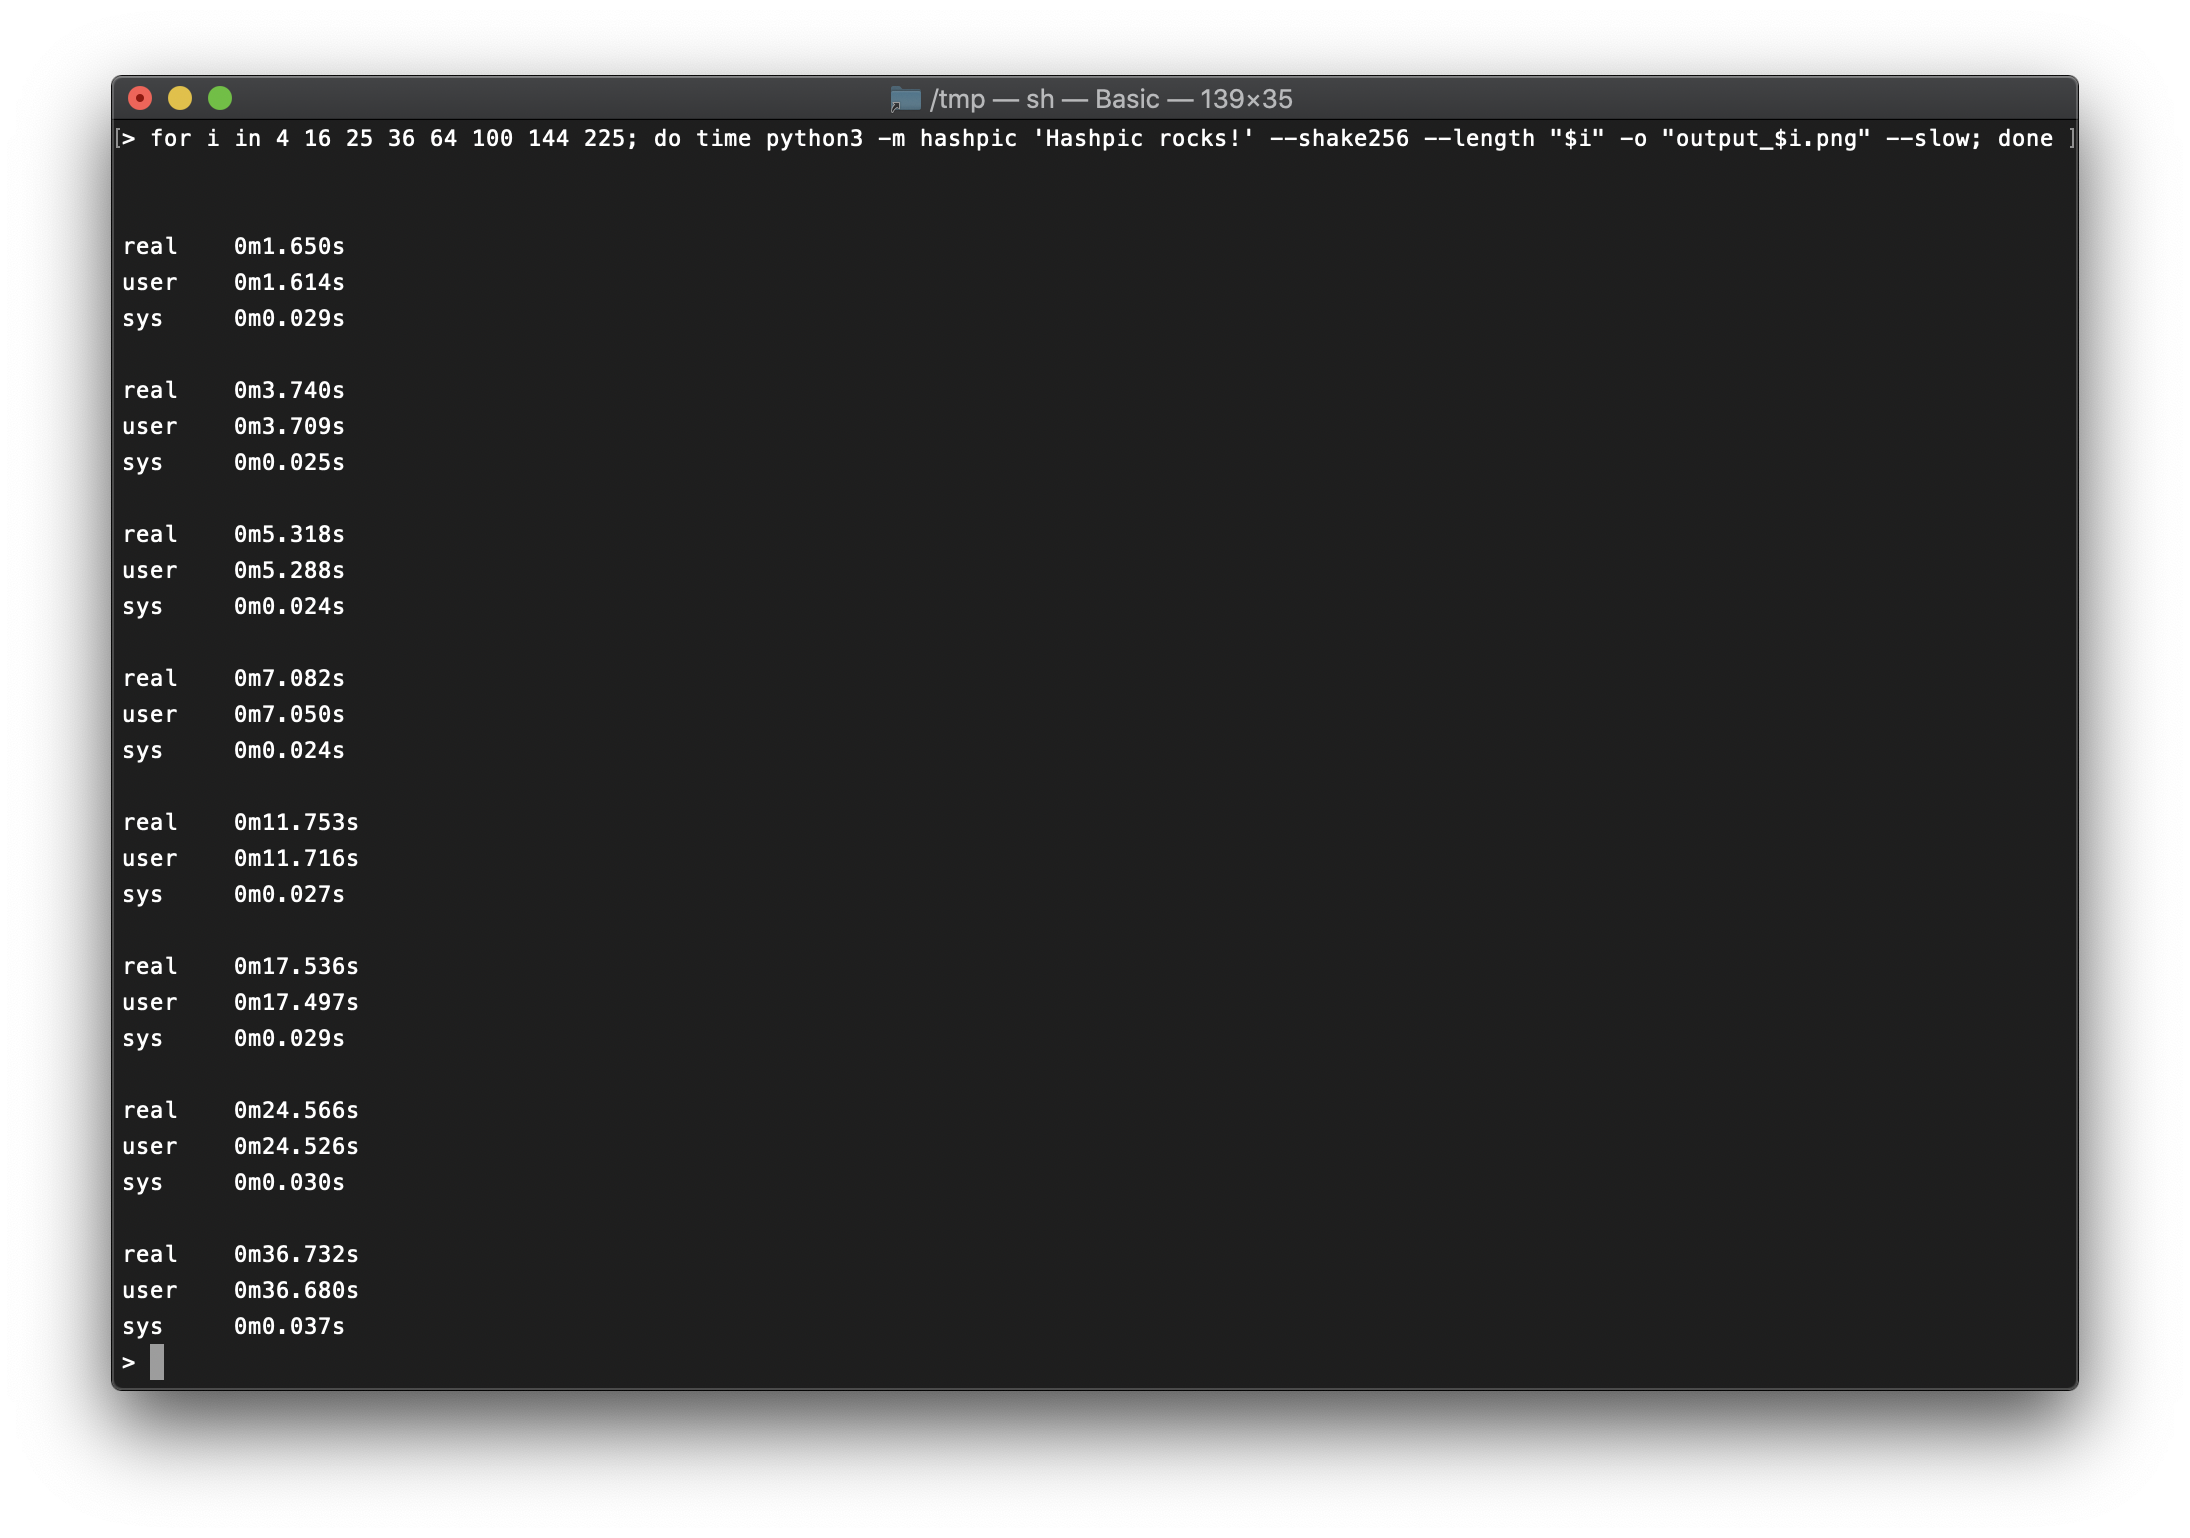
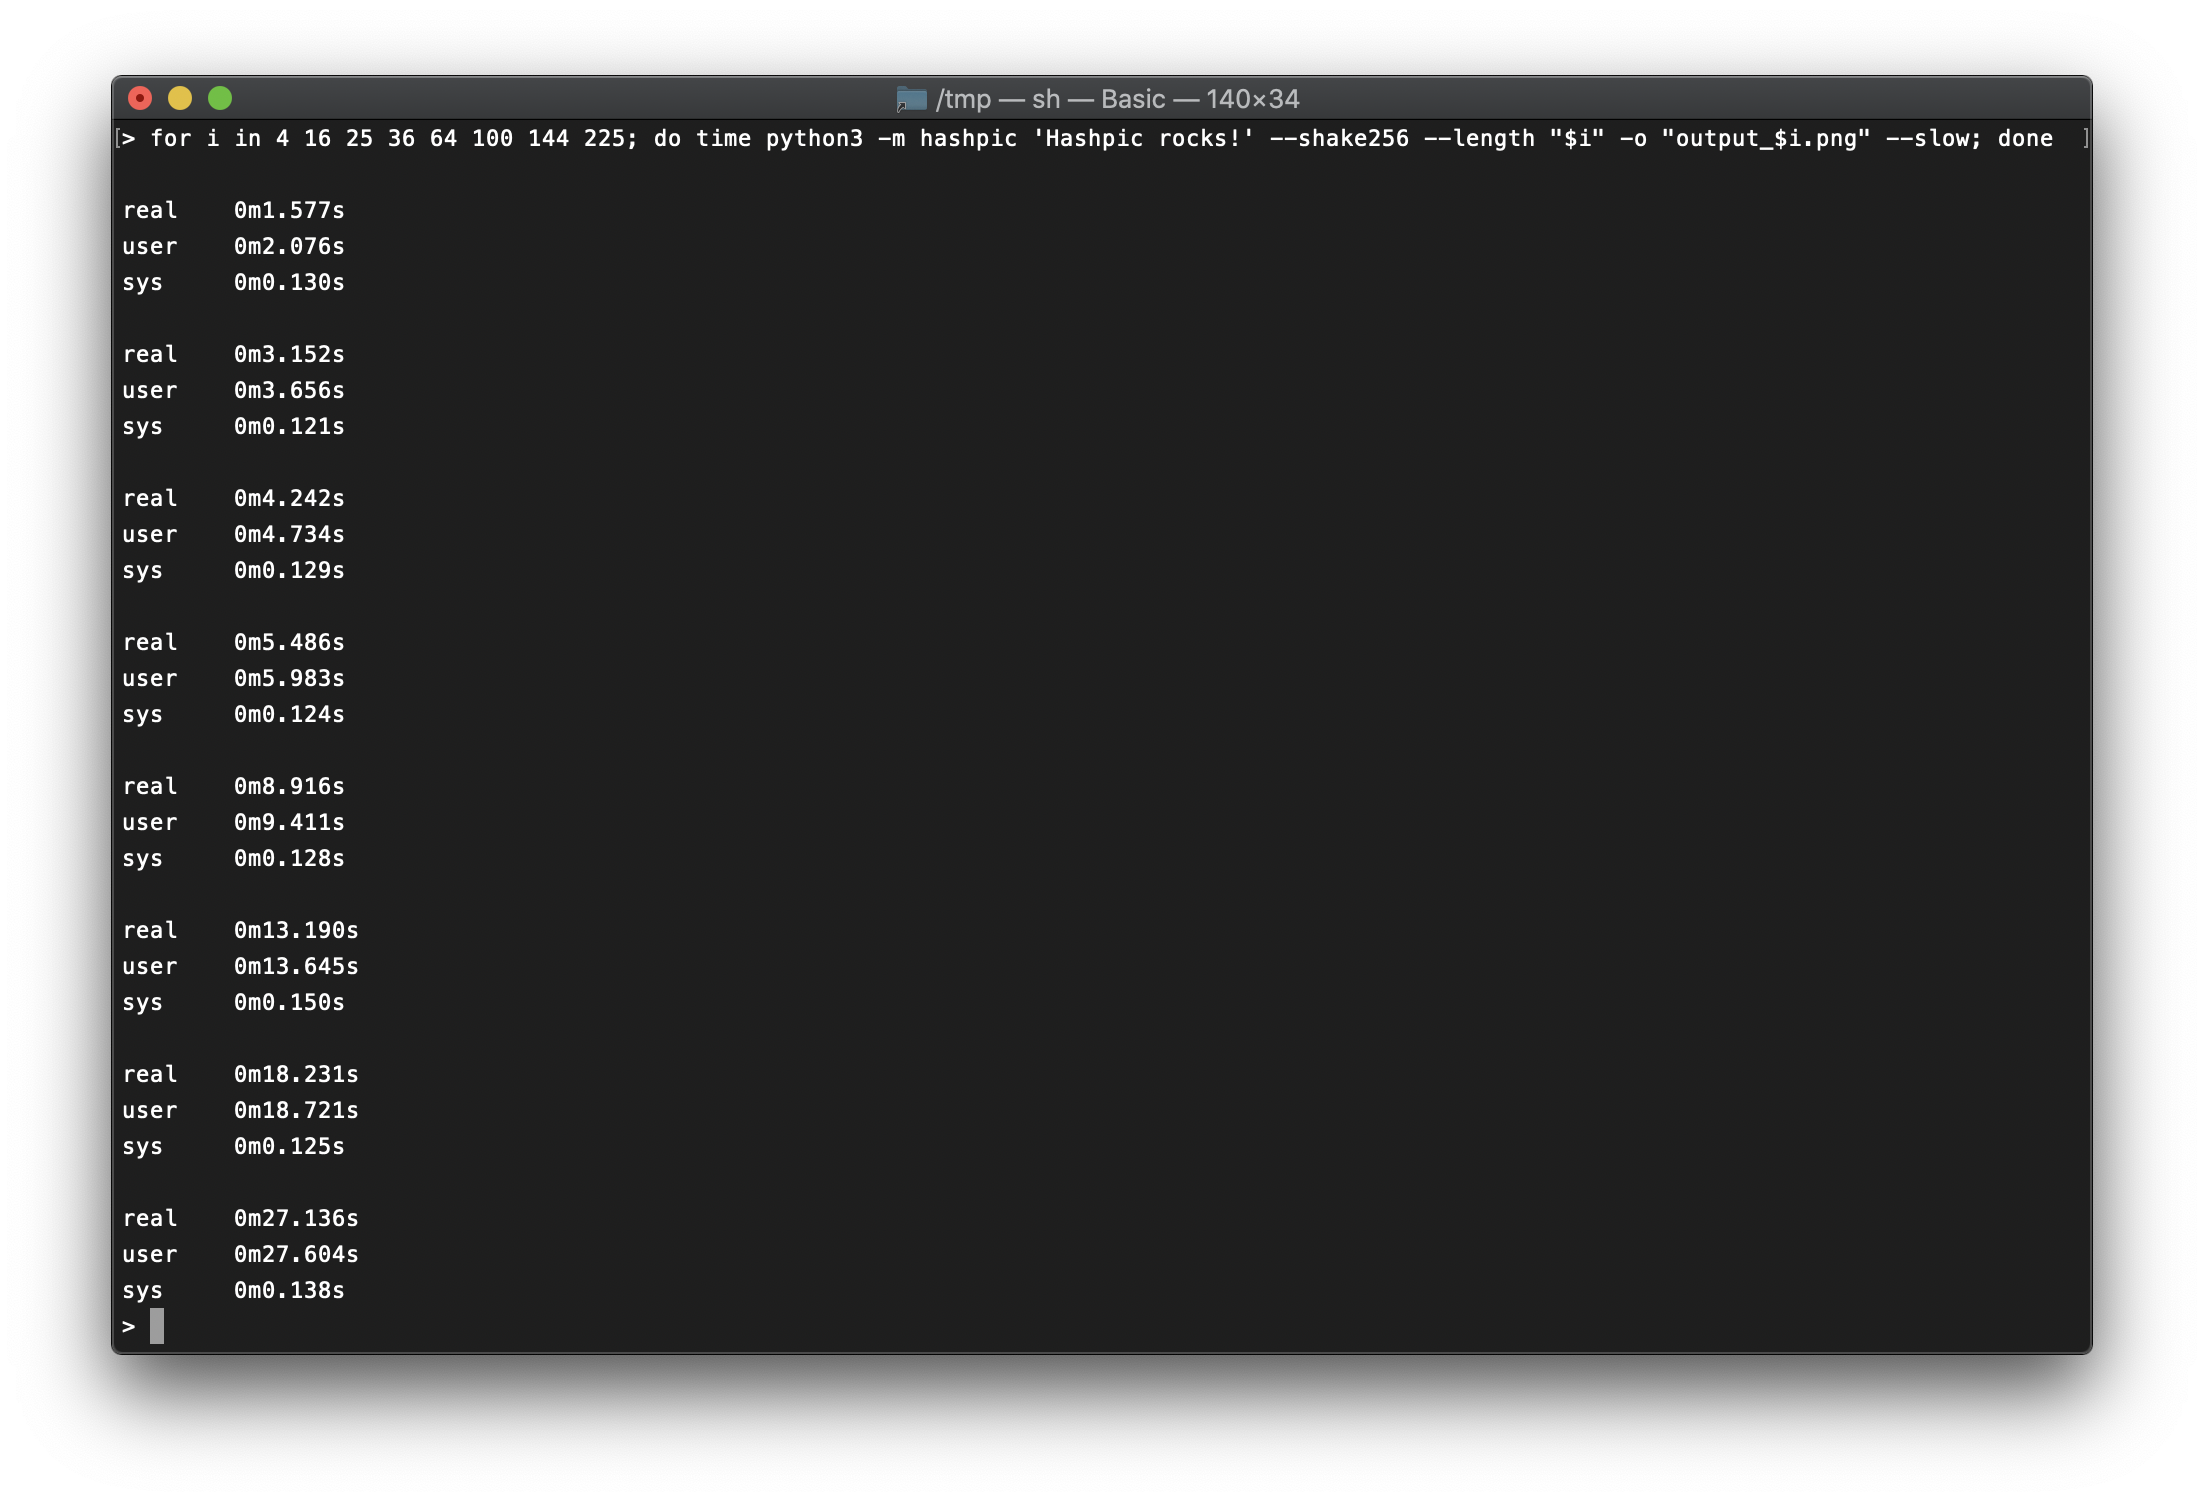
performance adjustments

diff --git a/hashpic/shake256.py b/hashpic/shake256.py
@@ -1,6 +1,7 @@
 import sys, re, hashlib, os, math
 from PIL import Image, ImageOps
 from .util import *
+import numpy as np
 
 
 def shake_256_mode(
@@ -142,12 +143,9 @@ def __paint(pixels, colors, size, digest_length):
 
     for x in range(size):
         for y in range(size):
-            for i in range(len(store)):
-                if (
-                    store[i][0] <= x < store[i][1]
-                    and store[i][2] <= y < store[i][3]
-                ):
-                    pixels[x, y] = colors[i]
+            for line, idx in zip(store, range(len(store))):
+                if line[0] <= x < line[1] and line[-2] <= y < line[-1]:
+                    pixels[x, y] = colors[idx]
 
 
 def _64(pixels, colors, dimension):
